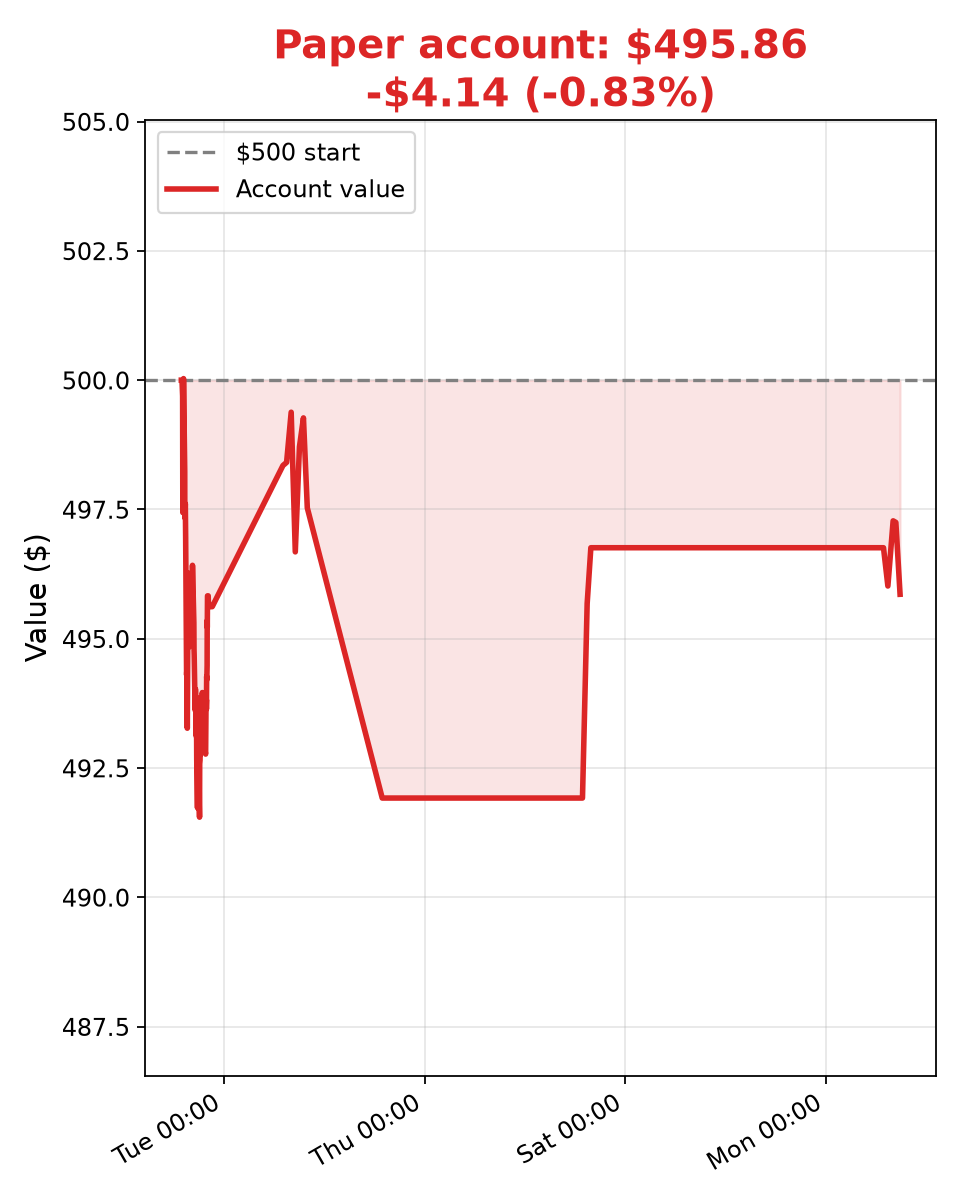
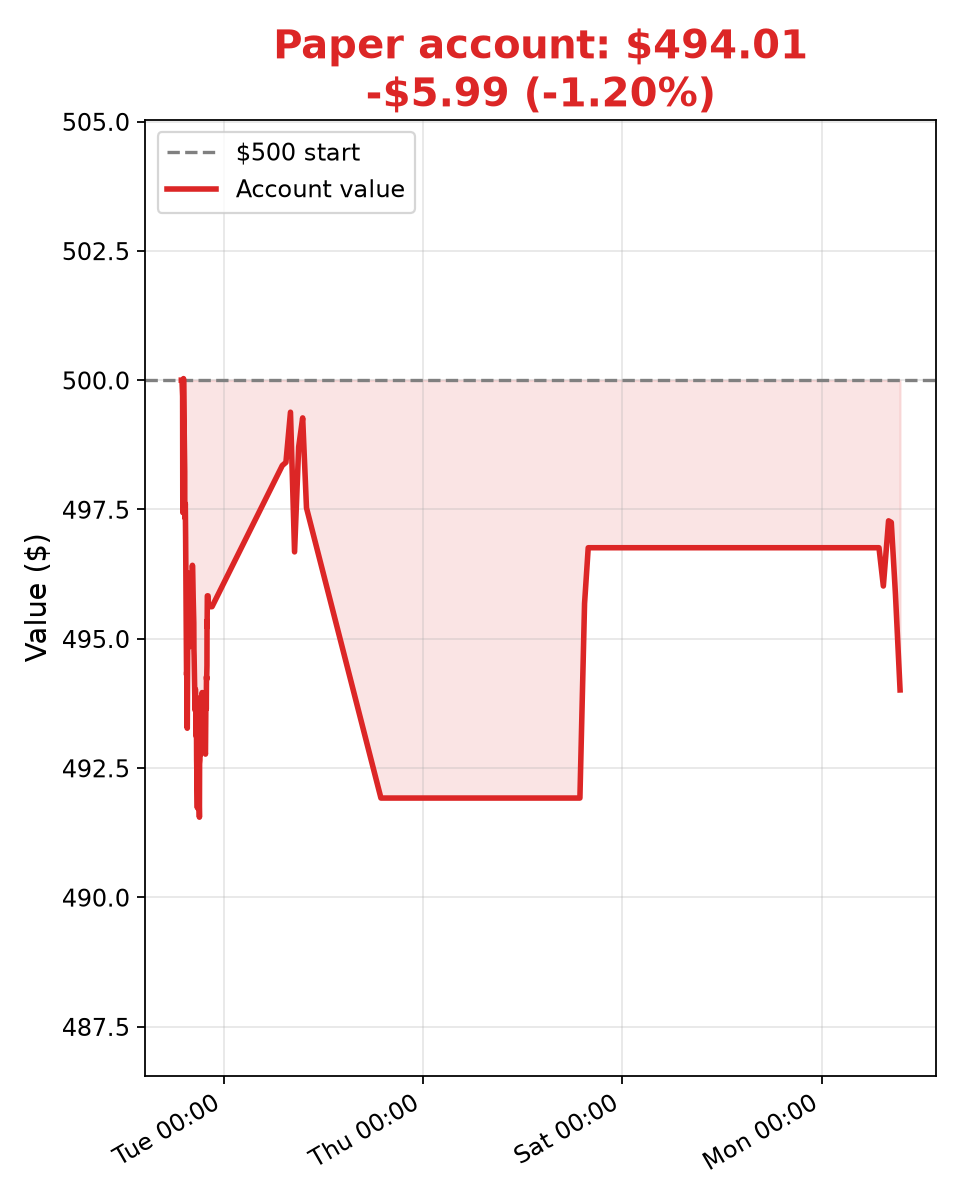
Update 2026-10-19T18:51:32Z

diff --git a/ledger.md b/ledger.md
@@ -2,12 +2,11 @@
 
 - Start: Mon Oct 12 2026
 - Starting capital: $500.00
-- Cash: $356.76
+- Cash: $494.01
 
 ## Holdings
 | ticker | qty | avg_cost | cost_basis | stop | target |
 |---|---|---|---|---|---|
-| ASTS | 3.2370 | 43.25 | 140.00 | 42.40 | 44.75 |
 
 ## Trades log
 | time_utc | action | ticker | qty | price | total | reason |
@@ -23,6 +22,7 @@
 | 2026-10-16T13:44:54Z | BUY | AA | 3.2695 | 42.82 | 140.00 | gap_and_go: +6.0% vs prev 40.41, open 41.42; grinding HOD (1m 42.65→42.82, H 42.95) on ~1.4M vol. Materials, not tech — QQQ −0.8% but IWM green. Stop 42.1 (under 13:35 base), target 44.3. Yahoo 1m 2026-10-16T13:44:54Z. |
 | 2026-10-16T15:45:00Z | SELL | AA | 3.2695 | 44.30 | 144.84 | Target hit: 1m high 44.35 at 15:03Z (10:03 AM CT), before trailing stop 43.20 was touched (15:29Z). Fill at target. PnL vs $140 ≈ +$4.84 (+3.5%). Last 43.14. Yahoo 1m. |
 | 2026-10-19T13:46:00Z | BUY | ASTS | 3.2370 | 43.25 | 140.00 | gap_and_go: +6.4% vs prev 40.64, open 42.29; near HOD 43.40 on ~2.8M vol in 15m. Risk-on open (QQQ +1.4%, SPY +0.5%). Stop 42.40, target 44.75 (fixed target per AA lesson). Yahoo 1m. |
+| 2026-10-19T18:50:30Z | SELL | ASTS | 3.2370 | 42.40 | 137.25 | Stop hit: 1m low 42.395 at 18:35Z (1:35 PM CT) vs stop 42.40, midday fade after failing at 43.77. Fill at stop. PnL ≈ -$2.75 (-2.0%). Last 42.73. Yahoo 1m. |
 
 ## Value history (append-only)
 - 2026-10-12T13:46:10Z — total $500.00, cash $500.00
@@ -212,3 +212,4 @@
 - 2026-10-19T16:04:18Z — total $497.28, cash $356.76 (mark, no trade; ASTS 43.41 marked; stop 42.40 / target 44.75 intact; post-entry LOD 42.42)
 - 2026-10-19T16:43:30Z — total $497.25, cash $356.76 (mark, 11:43 AM CT, no trade; ASTS 43.40, low since entry 42.42 vs stop 42.40, high 43.68 vs target 44.75 — no hit; SPY 768.3 (+0.7%), QQQ 721.5 (+1.7%), IWM 271.8; midday signals only VWAP flips/day-low bounces, skipped)
 - 2026-10-19T17:43:50Z — total $495.86, cash $356.76 (mark, 12:43 PM CT, no trade; ASTS 42.97, low since entry 42.42 vs stop 42.40, high 43.77 vs target 44.75 — no hit; SPY 767.3 (+0.0% from open), QQQ 719.4 (faded to flat from open), IWM 271.2; midday signals only VWAP flips/day-low bounces, skipped)
+- 2026-10-19T18:50:30Z — total $494.01, cash $494.01 (ASTS stopped @ 42.40 at 1:35 PM CT, -$2.75; all cash; SPY 767.7 (+0.1% from open), QQQ 719.5 (flat from open), IWM 271.2; late signals only VWAP reclaims/day-low bounces, no new entry)
